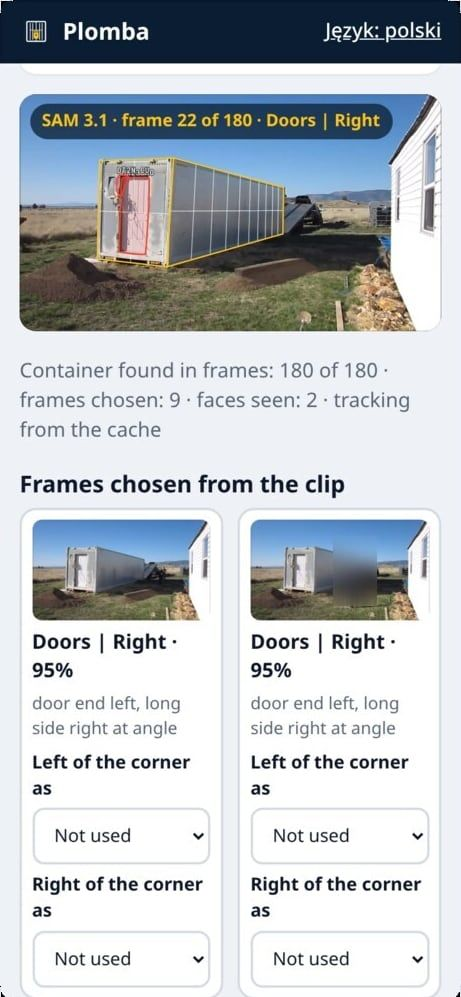
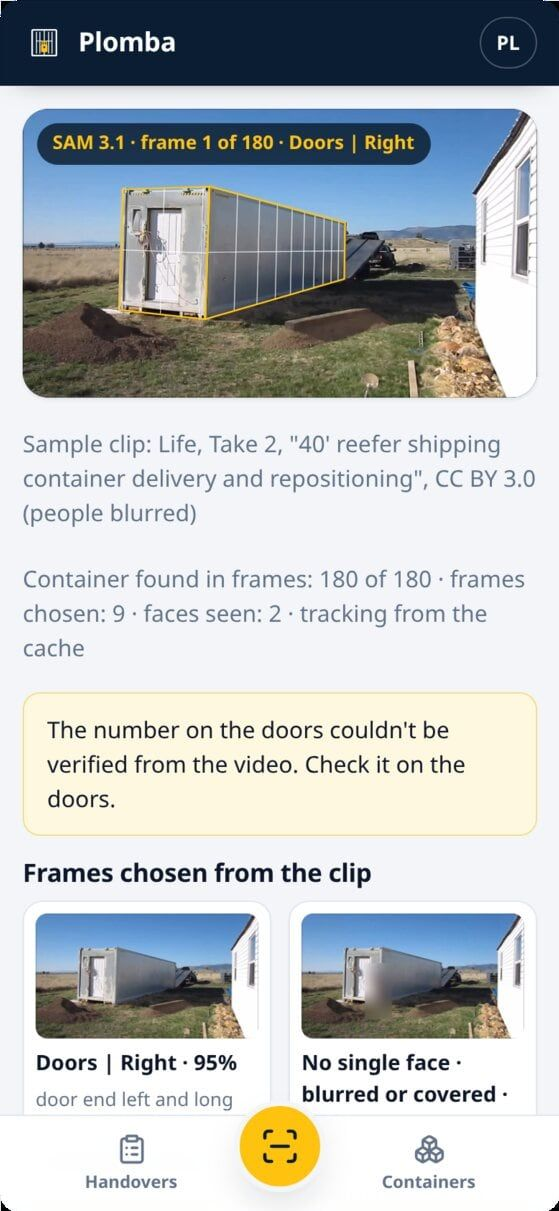
feat(site): screens from the redesigned app, cut from the README image by its layout; link the website

diff --git a/apps/site/scripts/make-images.ts b/apps/site/scripts/make-images.ts
@@ -24,18 +24,37 @@ interface Region {
   readonly height: number;
 }
 
-/** Where each phone screen sits in the 1500 × 1057 source, found by its navy app bar. */
-const SCREENS: Readonly<Record<string, Region>> = {
-  'screen-walkaround': { left: 29, top: 29, width: 461, height: 997 },
-  'screen-handover': { left: 519, top: 29, width: 461, height: 997 },
-  'screen-passport': { left: 1010, top: 29, width: 461, height: 997 },
-};
+/**
+ * The README image is four phone screens (780 × 1688 each) in a row, with a
+ * 44 px margin around and between them, scaled to the image's width. The
+ * site shows the last three: the walk-around, a handover and the passport.
+ */
+const PANEL = { width: 780, height: 1688, gap: 44, count: 4 } as const;
+const SCREENS = ['screen-walkaround', 'screen-handover', 'screen-passport'] as const;
+const FIRST_SCREEN = 1;
+
+/** Where each phone screen sits in the source, inset a pixel to stay clear of the rounded corners' edge. */
+async function screenRegions(): Promise<Map<string, Region>> {
+  const { width = 0 } = await sharp(SOURCE).metadata();
+  const scale = width / (PANEL.count * PANEL.width + (PANEL.count + 1) * PANEL.gap);
+  const regions = new Map<string, Region>();
+  SCREENS.forEach((name, i) => {
+    const left = (PANEL.gap + (FIRST_SCREEN + i) * (PANEL.width + PANEL.gap)) * scale;
+    regions.set(name, {
+      left: Math.ceil(left),
+      top: Math.ceil(PANEL.gap * scale),
+      width: Math.floor(PANEL.width * scale) - 1,
+      height: Math.floor(PANEL.height * scale) - 1,
+    });
+  });
+  return regions;
+}
 
 const JPEG = { quality: 84, mozjpeg: true, progressive: true } as const;
 
 async function cropScreens(): Promise<Buffer[]> {
   const crops: Buffer[] = [];
-  for (const [name, region] of Object.entries(SCREENS)) {
+  for (const [name, region] of await screenRegions()) {
     const crop = await sharp(SOURCE).extract(region).jpeg(JPEG).toBuffer();
     await sharp(crop).toFile(`${OUT}${name}.jpg`);
     crops.push(crop);
@@ -48,7 +67,7 @@ async function socialImage(screens: readonly Buffer[]): Promise<void> {
   const width = 1200;
   const height = 630;
   const phoneHeight = 520;
-  const phoneWidth = Math.round((461 / 997) * phoneHeight);
+  const phoneWidth = Math.round((PANEL.width / PANEL.height) * phoneHeight);
   const gap = 20;
   const firstLeft = width - 64 - screens.length * phoneWidth - (screens.length - 1) * gap;
 

diff --git a/apps/site/src/images.ts b/apps/site/src/images.ts
@@ -2,7 +2,7 @@
  * Every image the site shows, in one place: swap a screenshot here and every
  * page that shows it follows. Files live in public/images.
  *
- * The screens are crops of docs/images/screens.jpg (scripts/make-images.ts).
+ * The screens are cut out of docs/images/screens.jpg (scripts/make-images.ts).
  * The photos inside them are CC BY 3.0 frames, credited by PHOTO_CREDITS.
  */
 
@@ -16,20 +16,20 @@ export interface Image {
 export const IMAGES = {
   walkaround: {
     src: '/images/screen-walkaround.jpg',
-    width: 461,
-    height: 997,
-    alt: 'Plomba on a phone, playing a walk-around video. SAM 3.1 tracks the container in frame 22 of 180 and outlines its doors and right side. Below are the frames chosen from the clip, each with the faces Muse Spark named.',
+    width: 559,
+    height: 1211,
+    alt: 'Plomba on a phone, playing a walk-around video. SAM 3.1 tracks the container through 180 frames, and Muse Spark has named the doors and right side of this corner view, outlined on the video. Below are the frames chosen from the clip, each with the faces Muse Spark named.',
   },
   handover: {
     src: '/images/screen-handover.jpg',
-    width: 461,
-    height: 997,
+    width: 559,
+    height: 1211,
     alt: 'A gate-out handover of container PLBU 400004 3 at Łódź inland terminal. A photo of the left side on a truck shows the corrosion recorded at the last handover, LX50 CO, drawn on the same spot.',
   },
   passport: {
     src: '/images/screen-passport.jpg',
-    width: 461,
-    height: 997,
+    width: 559,
+    height: 1211,
     alt: "A container's damage passport: a map of its faces with each damage coloured by the handover that first recorded it, then the handovers and each damage's history.",
   },
   social: {

diff --git a/apps/site/src/layout.ts b/apps/site/src/layout.ts
@@ -161,7 +161,7 @@ function siteFooter(): Html {
           (credit, i) =>
             html`${i > 0 ? ' and ' : ''}“<a href="${credit.url}">${credit.title}</a>” by ${credit.author}`,
         )},
-        both licensed <a href="${PHOTO_LICENCE.url}">${PHOTO_LICENCE.name}</a>. A passer-by in one frame is blurred, and the damage passport shows test data.
+        both licensed <a href="${PHOTO_LICENCE.url}">${PHOTO_LICENCE.name}</a>. People in the walk-around clip are blurred; the handovers and the damage passport show test data.
       </p>
     </div>
   </div>

diff --git a/apps/site/src/pages/home.ts b/apps/site/src/pages/home.ts
@@ -191,7 +191,7 @@ function moments(): Html {
         <p>The checker confirms, and the frames become the photos.</p>`,
       visual: device(IMAGES.walkaround, {
         caption:
-          'SAM 3.1 tracking the container: frame 22 of 180, the doors and the right side in view.',
+          'SAM 3.1 tracks the container through the clip; Muse Spark named the doors and the right side of this corner view.',
       }),
     }),
     feature({

diff --git a/docs/build-log.md b/docs/build-log.md
@@ -162,6 +162,10 @@ A dated record of what was built and when. The newest entry is at the bottom.
   A typed client parses every answer with the same zod schemas the server validates with. The tests run each example against the real HTTP API and real signed webhooks (52 tests). A sandbox serves the API with fake models, so anyone can try them without a Meta key.
 - **The app redesigned as a product:** a design system (tokens, buttons, pills, entity rows, a timeline, a stepper), a header with navigation and a bottom tab bar with the inspect button, a dashboard with the day's numbers, and a fleet screen. The walk-around screen shows its steps while SAM 3.1 and Muse Spark work, and every action has an icon.
 - **Live demo at https://app.plomba.lisovate.com**, with a certificate from Let's Encrypt.
+- **Product website** ([apps/site](../apps/site)) at https://plomba.lisovate.com: the problem, how a handover works, a page for each kind of company (shipping lines, rail and intermodal, trucking, owners and lessors, terminals and depots), the integrations, open source, and Plomba Cloud for companies that would rather not run it, with a waitlist.
+  - Static pages generated at build time from TypeScript, with no client framework. The diagrams on them (a damage passport, the sealed chain, a voice note coded to `LB3N DT`, a CODECO message) are computed with `@plomba/core`, so they show what the app itself produces.
+  - The waitlist works without JavaScript, is rate-limited, stores sign-ups in SQLite and exports them as CSV. No third-party scripts or fonts are loaded.
+  - An automated accessibility check (axe) found no problems at desktop or phone width.
 
 **Findings:**
 - **Naming faces from a walk-around** (test clips used locally only, not stored or published):

diff --git a/README.md b/README.md
@@ -12,7 +12,7 @@ Plomba is an app for the checker doing the walk-around at a handover. It install
 
 It's open source (Apache-2.0) and built to be self-hosted: a terminal, depot or rail operator runs one container on its own machine and keeps its data ([self-hosting](docs/self-hosting.md)).
 
-**Try it:** a demo installation runs at https://app.plomba.lisovate.com (the access code is in the hackathon submission). Its handovers and places are simulated, and its photos are openly licensed (see [Credits](#credits)).
+**Try it:** a demo installation runs at https://app.plomba.lisovate.com (the access code is in the hackathon submission). The website, with the solutions for each kind of company and the hosted Plomba Cloud, is at https://plomba.lisovate.com. Its handovers and places are simulated, and its photos are openly licensed (see [Credits](#credits)).
 
 ## How a handover works
 
